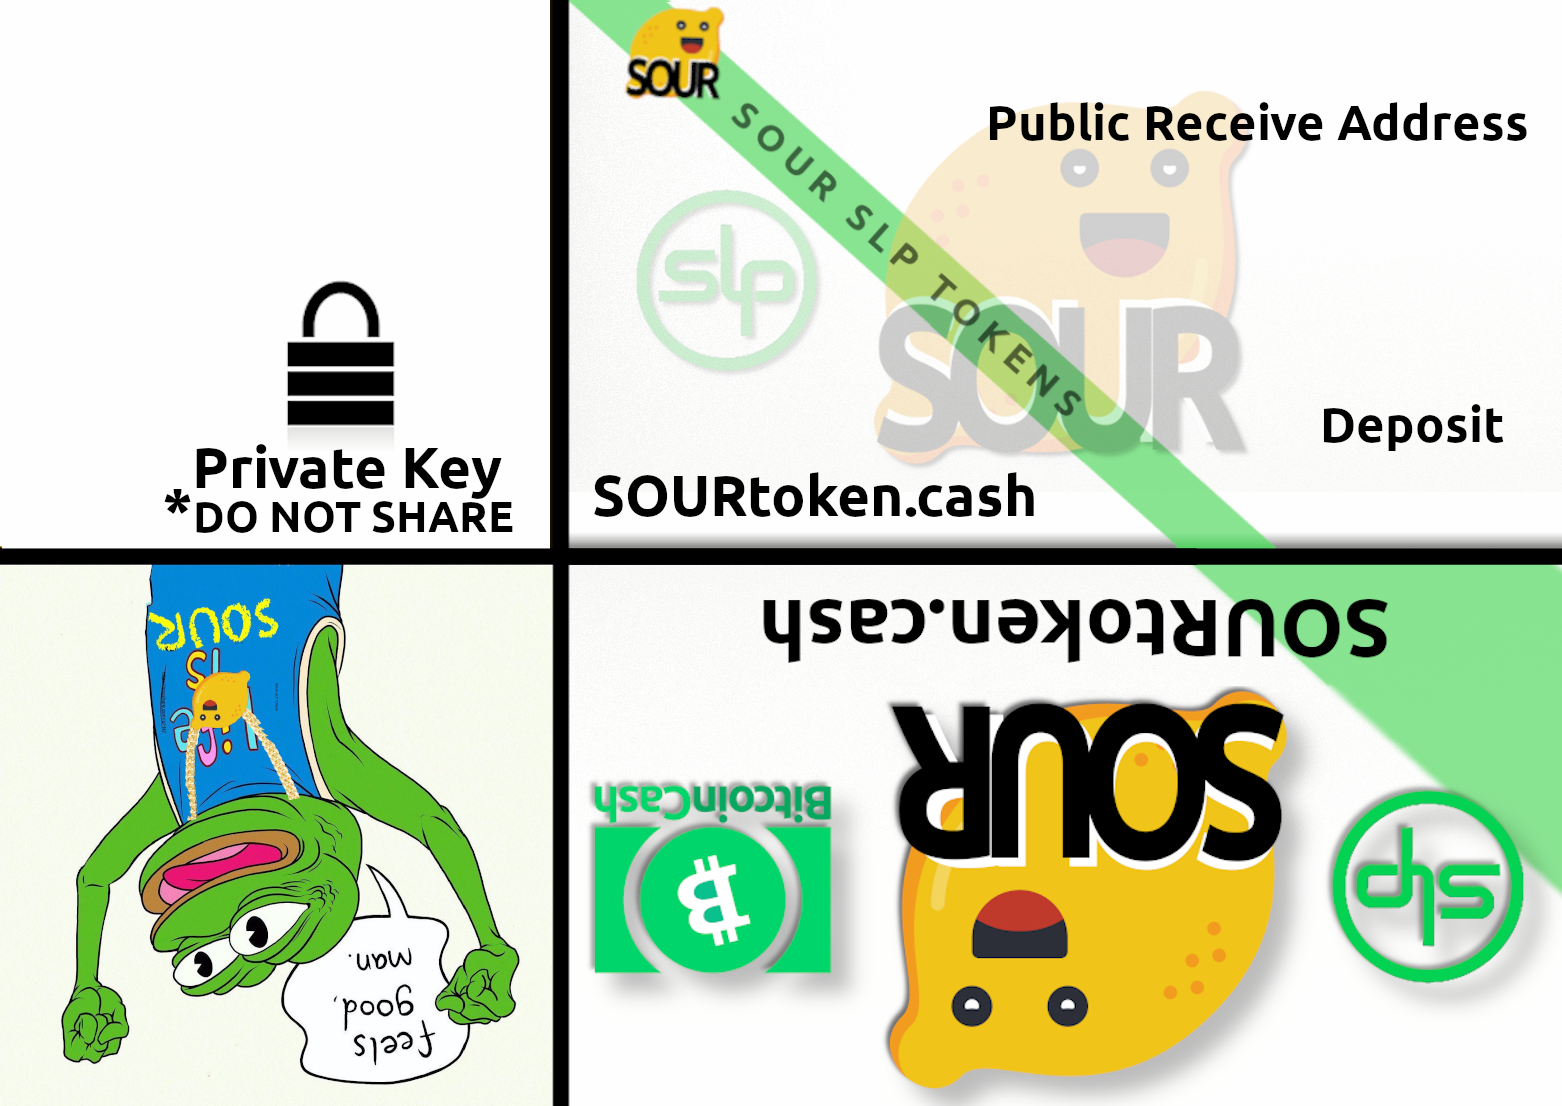
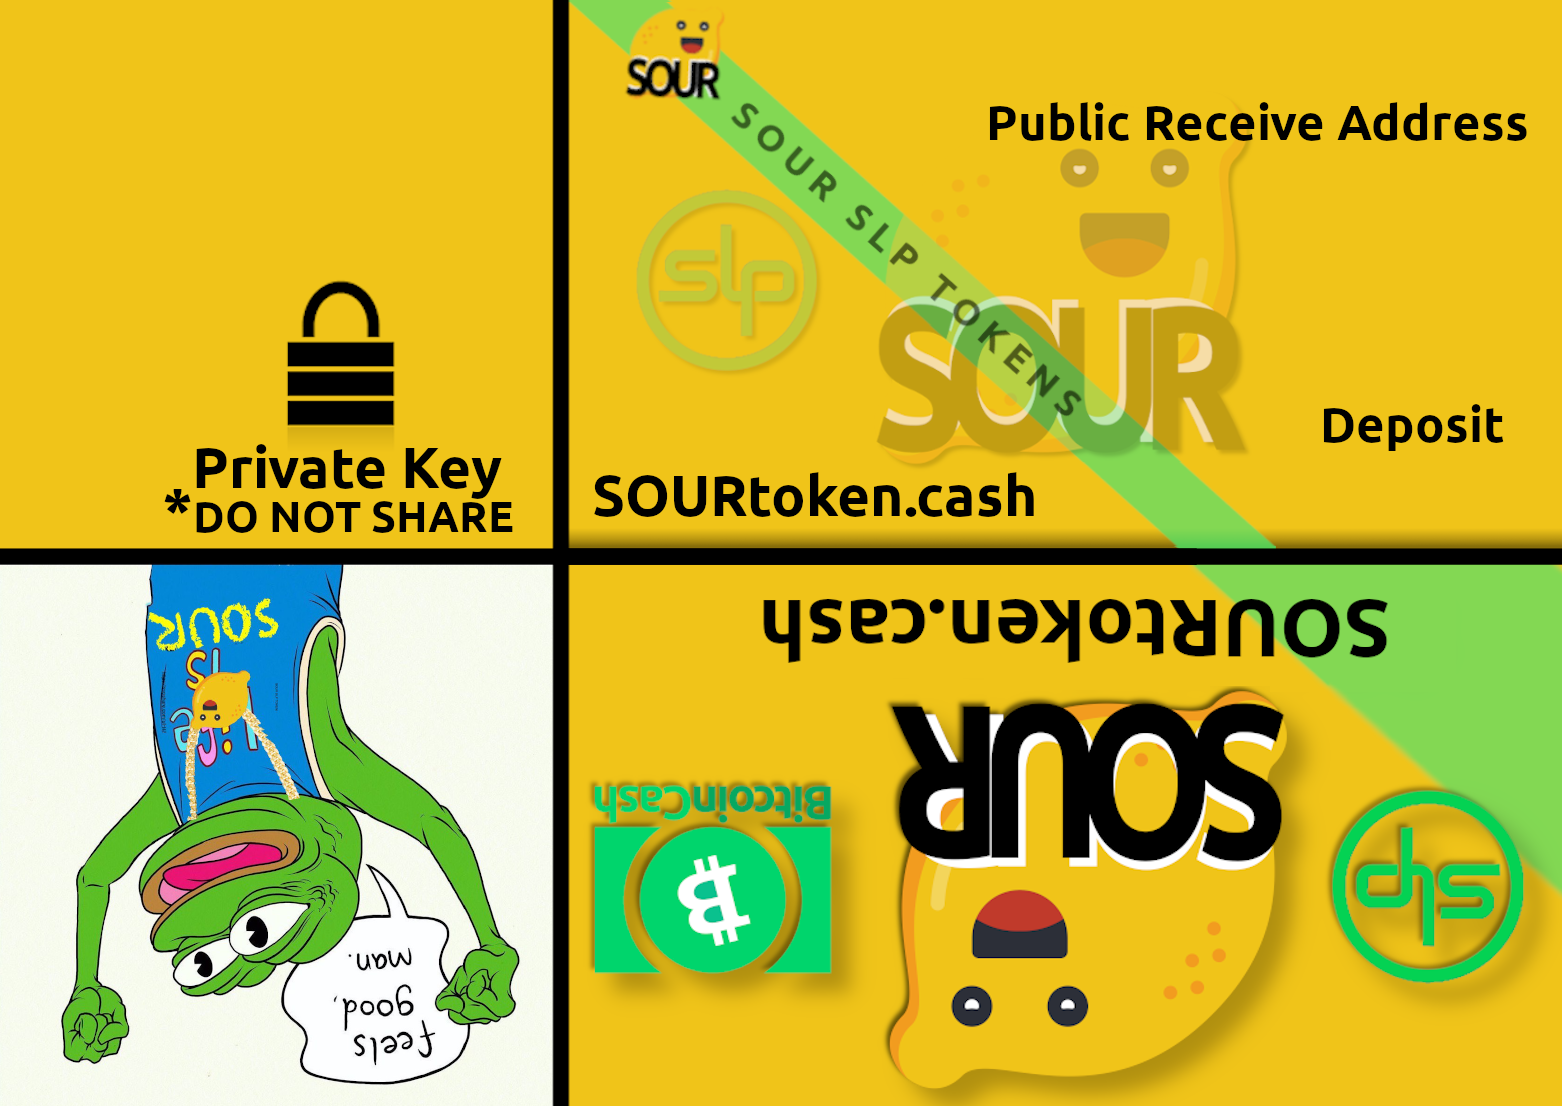
updating with new professional design

diff --git a/souroffline.html b/souroffline.html
@@ -6915,7 +6915,7 @@ input[type=checkbox] { position: relative; z-index: 20; }
 
 	<header id="paperHeader">
 		<h1>
-			<img src="img/SOUR.png" style="margin-top:1em;" />
+			<img src="img/SOUR.png" style="margin-top:.25em;" />
 		<!-- <svg version="1.1" id="Layer_1" xmlns="http://www.w3.org/2000/svg" xmlns:xlink="http://www.w3.org/1999/xlink" x="0px" y="0px" width="58.2387695px" height="70.4990234px" viewBox="0 0 58.2387695 70.4990234" enable-background="new 0 0 58.2387695 70.4990234" xml:space="preserve"> -->
 		<path d="M57.7895508,18.8398438L39.3989258,0.4487305C39.1098633,0.1616211,38.7202148,0,38.3139648,0H4.597168
 			C2.0620117,0,0,2.0629883,0,4.5976563v61.3027344c0,2.5361328,2.0620117,4.5986328,4.597168,4.5986328h49.0429688
@@ -7185,7 +7185,8 @@ and entering your simpleledger address.</p>
 					</div>		
 					<div class="style-row">
 						<div onmouseover="toggleSelectedDesign(this)" onclick="toggleSelectedDesign(this)" class="style-col sc-left">
-							<div onclick="designConfirmed(this)" data-wallet-skin="default" class="confirm-design confirm-design-white">
+							
+							<div onclick="designConfirmed(this)" data-wallet-skin="inksaver" class="confirm-design">
 								Select and Continue
 							</div>
 							<div class="style-label">
@@ -7197,30 +7198,32 @@ and entering your simpleledger address.</p>
 						</div>
 					
 						<div onmouseover="toggleSelectedDesign(this)" onclick="toggleSelectedDesign(this)" class="style-col sc-right">
-							<div onclick="designConfirmed(this)" data-wallet-skin="inksaver" class="confirm-design">
+							<div onclick="designConfirmed(this)" data-wallet-skin="default" class="confirm-design">
 								Select and Continue
 							</div>
 							<div class="style-label">
-							SOUR Paper Wallet Light
+							SOUR Paper Wallet Yellow
 						</div>
 						<div class="style-example">
 							<img src="img/2019-paper-wallet-light.png">
 						</div>
 						</div>
 					</div>		
-					<!--								
+											
 					<div class="style-row">
 						<div onmouseover="toggleSelectedDesign(this)" onclick="toggleSelectedDesign(this)" class="style-col sc-left">
 							<div onclick="designConfirmed(this)" data-wallet-skin="nostep" class="confirm-design">
 								Select and Continue
 							</div>
 							<div class="style-label">
-							Gadsden 
+							SOUR Paper Wallet White
 							</div>
 							<div class="style-example">
 								<img src="img/2019-paper-wallet-tread.png">
 							</div>
 						</div>
+
+							<!--	
 						<div onmouseover="toggleSelectedDesign(this)" onclick="toggleSelectedDesign(this)" class="style-col sc-right">
 							<div onclick="designConfirmed(this)" data-wallet-skin="dorian" class="confirm-design confirm-design-white">
 								Select and Continue
@@ -7231,8 +7234,10 @@ and entering your simpleledger address.</p>
 							<div class="style-example">
 								<img src="img/2019-paper-wallet-satoshi.png">
 							</div>
-						</div>
+						</div> -->
 					</div>
+
+					<!--
 					<div class="style-row">
 						<div onmouseover="toggleSelectedDesign(this)" onclick="toggleSelectedDesign(this)" class="style-col sc-left">
 							<div onclick="designConfirmed(this)" data-wallet-skin="vietnam" class="confirm-design">
@@ -10790,13 +10795,15 @@ ninja.wallets.paperwallet = {
 
     case 'default':
       //file resource version: 
-      image = 'img/2019-paper-wallet-dark-blue.png';
+     // image = 'img/2019-paper-wallet-dark-blue.png';
+      image = 'img/2019-paper-wallet-light.png'
       //base64 encoded version:
       break;
 
     case 'inksaver':
       //file resource version
-      image = 'img/2019-paper-wallet-light.png'
+      image = 'img/2019-paper-wallet-dark-blue.png'
+      //image = 'img/2019-paper-wallet-light.png'
       //base64 encoded version:
       // Font color of cash address to black for b&w version
       addressColor='#111724;'
@@ -10838,6 +10845,7 @@ ninja.wallets.paperwallet = {
       image = 'img/2019-paper-wallet-tread.png';
       // Font color of cash address to gadsden
       //addressColor='#f9009e;'
+      addressColor='#000000;'
       lockArtColor='#fff;'
       //lockArtBgColor='#f9009e;' 
       break;
